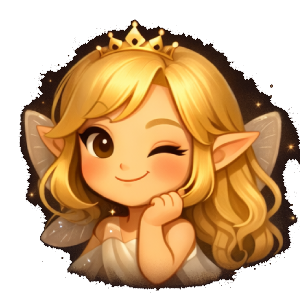
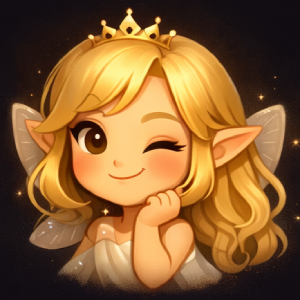
style: pairy 이미지 검은색 배경 제거
- LoadingFairy: 검은색 배경 및 padding 제거
- home-screen: pairy_main 이미지 검은색 배경 제거
- loading-screen: pairy_main 이미지 검은색 배경 제거
- recommendation-screen: fairy 아바타 검은색 배경 제거
- 모든 pairy 이미지를 원본 그대로 표시

diff --git a/components/paire/home-screen.tsx b/components/paire/home-screen.tsx
@@ -139,20 +139,18 @@ export function HomeScreen({
         transition={{ duration: 0.8 }}
         className="relative z-10 flex flex-col items-center text-center max-w-md"
       >
-        {/* Fairy mascot image - 검은색 배경 추가 */}
+        {/* Fairy mascot image */}
         <motion.div
           initial={{ opacity: 0, scale: 0.9 }}
           animate={{ opacity: 1, scale: 1 }}
           transition={{ duration: 1, delay: 0.2 }}
           className="mb-8"
         >
-          <div className="bg-black rounded-3xl p-6 inline-block">
-            <img
-              src="/images/pairy_main.png"
-              alt="PAIRÉ Fairy Sommelier"
-              className="w-72 h-auto drop-shadow-2xl"
-            />
-          </div>
+          <img
+            src="/images/pairy_main.png"
+            alt="PAIRÉ Fairy Sommelier"
+            className="w-72 h-auto drop-shadow-2xl"
+          />
         </motion.div>
 
         {/* Tagline */}

diff --git a/components/paire/loading-fairy.tsx b/components/paire/loading-fairy.tsx
@@ -61,20 +61,18 @@ export function LoadingFairy({
           </motion.div>
         )}
 
-        {/* Fairy 이미지 - 검은색 배경 추가 */}
+        {/* Fairy 이미지 */}
         <motion.div
           initial={{ scale: 0 }}
           animate={{ scale: 1 }}
           transition={{ delay: 0.2, type: "spring" }}
           className="mb-6"
         >
-          <div className="bg-black rounded-full p-4 inline-block shadow-xl">
-            <img
-              src={fairyImage}
-              alt="PAIRÉ Fairy"
-              className="w-24 h-24 rounded-full object-cover border-2 border-gold/30"
-            />
-          </div>
+          <img
+            src={fairyImage}
+            alt="PAIRÉ Fairy"
+            className="w-24 h-24 rounded-full object-cover mx-auto"
+          />
         </motion.div>
 
         {/* 로딩 메시지 */}

diff --git a/components/paire/recommendation-screen.tsx b/components/paire/recommendation-screen.tsx
@@ -260,13 +260,11 @@ export function RecommendationScreen({
         animate={{ opacity: 1, y: 0 }}
         className="px-6 mb-6 flex items-start gap-3"
       >
-        <div className="bg-black rounded-full p-2 flex-shrink-0">
-          <img
-            src={fairyImage}
-            alt="PAIRÉ Fairy"
-            className="w-12 h-12 rounded-full object-cover"
-          />
-        </div>
+        <img
+          src={fairyImage}
+          alt="PAIRÉ Fairy"
+          className="w-12 h-12 rounded-full object-cover flex-shrink-0"
+        />
         <div className="flex-1 bg-card rounded-2xl rounded-tl-none p-4 border border-border">
           <p className={cn(
             "text-foreground text-sm leading-relaxed",

diff --git a/components/paire/loading-screen.tsx b/components/paire/loading-screen.tsx
@@ -101,13 +101,11 @@ export function LoadingScreen({ imageUrl, onComplete }: LoadingScreenProps) {
             className="absolute inset-0 bg-gold/30 rounded-full blur-3xl w-48 h-48 -translate-x-1/4 -translate-y-1/4"
           />
 
-          <div className="bg-black rounded-2xl p-4 relative z-10">
-            <img
-              src="/images/pairy_main.png"
-              alt="PAIRÉ Fairy"
-              className="w-36 h-auto opacity-80"
-            />
-          </div>
+          <img
+            src="/images/pairy_main.png"
+            alt="PAIRÉ Fairy"
+            className="w-36 h-auto relative z-10 opacity-80"
+          />
         </motion.div>
 
         {/* Loading messages */}
